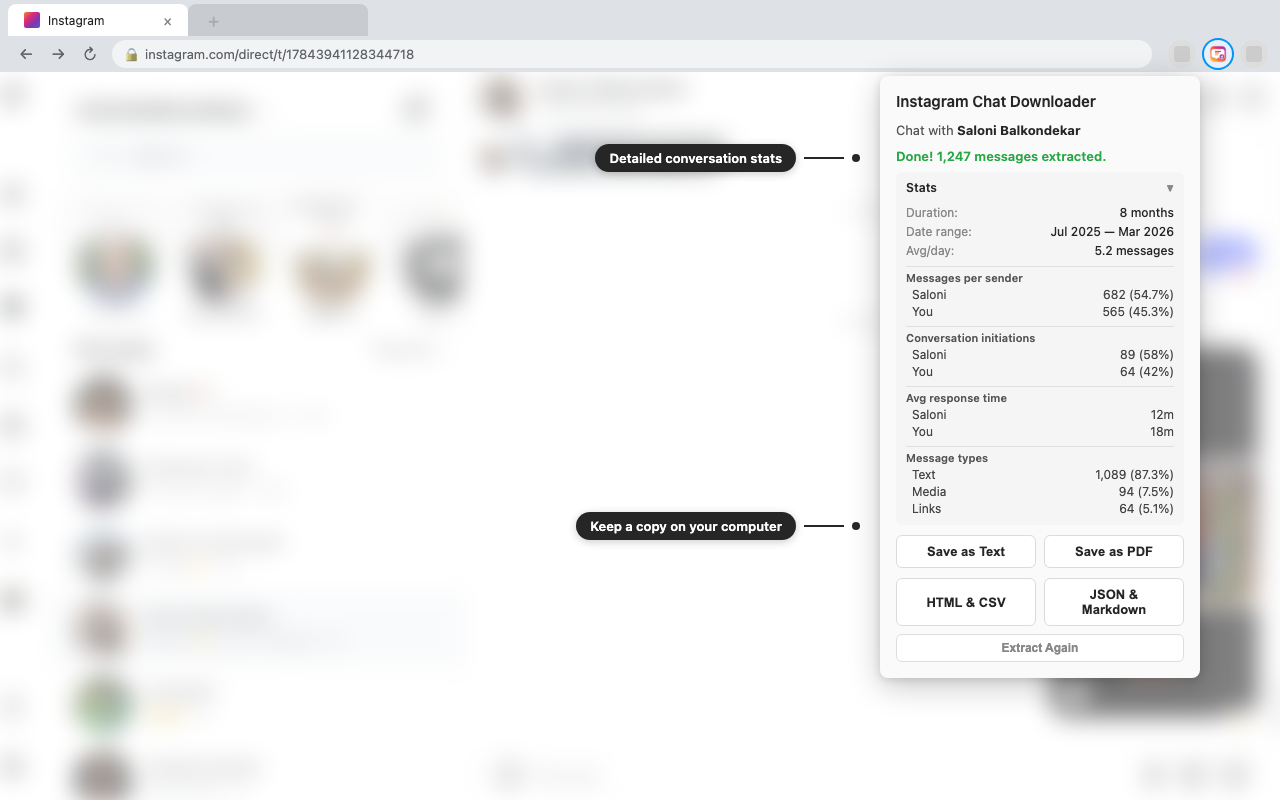
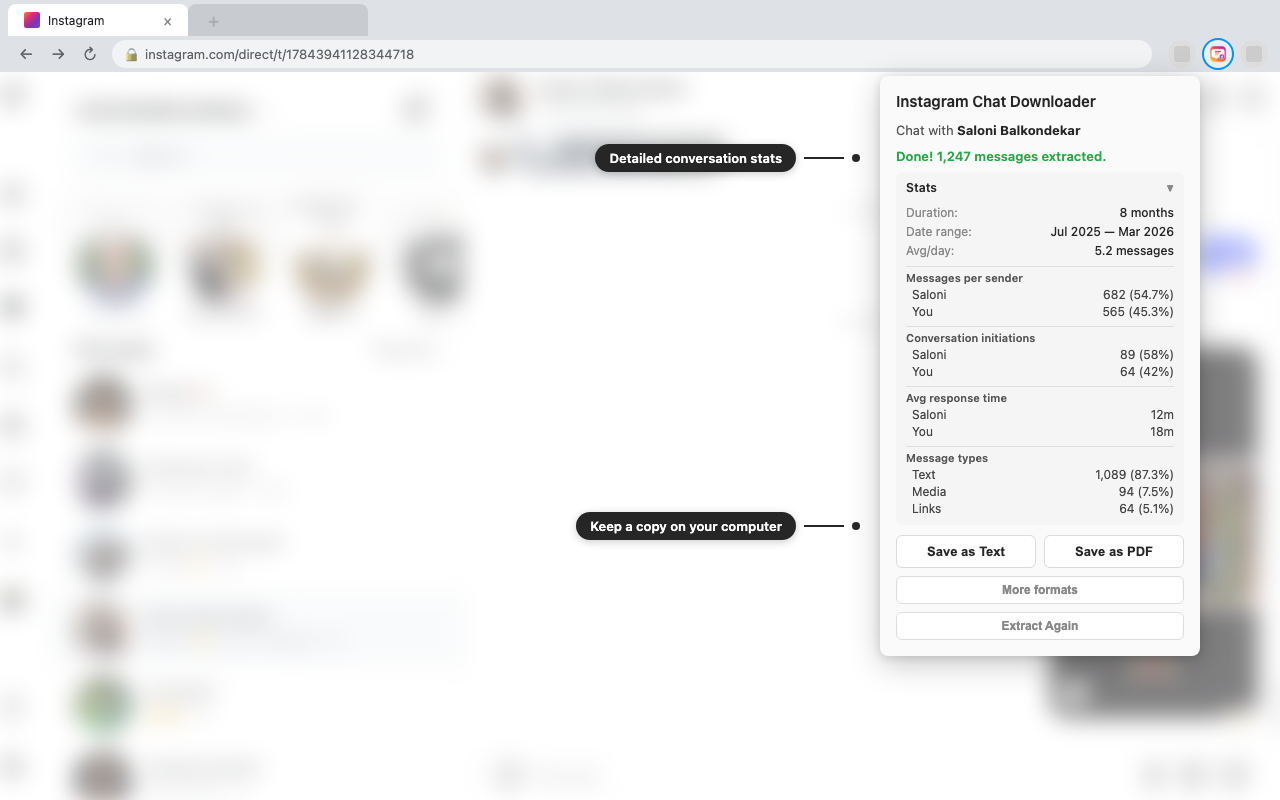
fix: align listing screenshot with popup

Changed region(s): [[0.6875, 0.7188, 0.9375, 0.875]]

diff --git a/screenshots/mockup.html b/screenshots/mockup.html
@@ -472,10 +472,7 @@ body {
         <button class="btn">Save as Text</button>
         <button class="btn">Save as PDF</button>
       </div>
-      <div class="btn-group">
-        <button class="btn">HTML &amp; CSV</button>
-        <button class="btn">JSON &amp; Markdown</button>
-      </div>
+      <button class="btn secondary" style="width:100%; text-align:center">More formats</button>
       <button class="btn secondary" style="width:100%; text-align:center">Extract Again</button>
     </div>
   </div>
